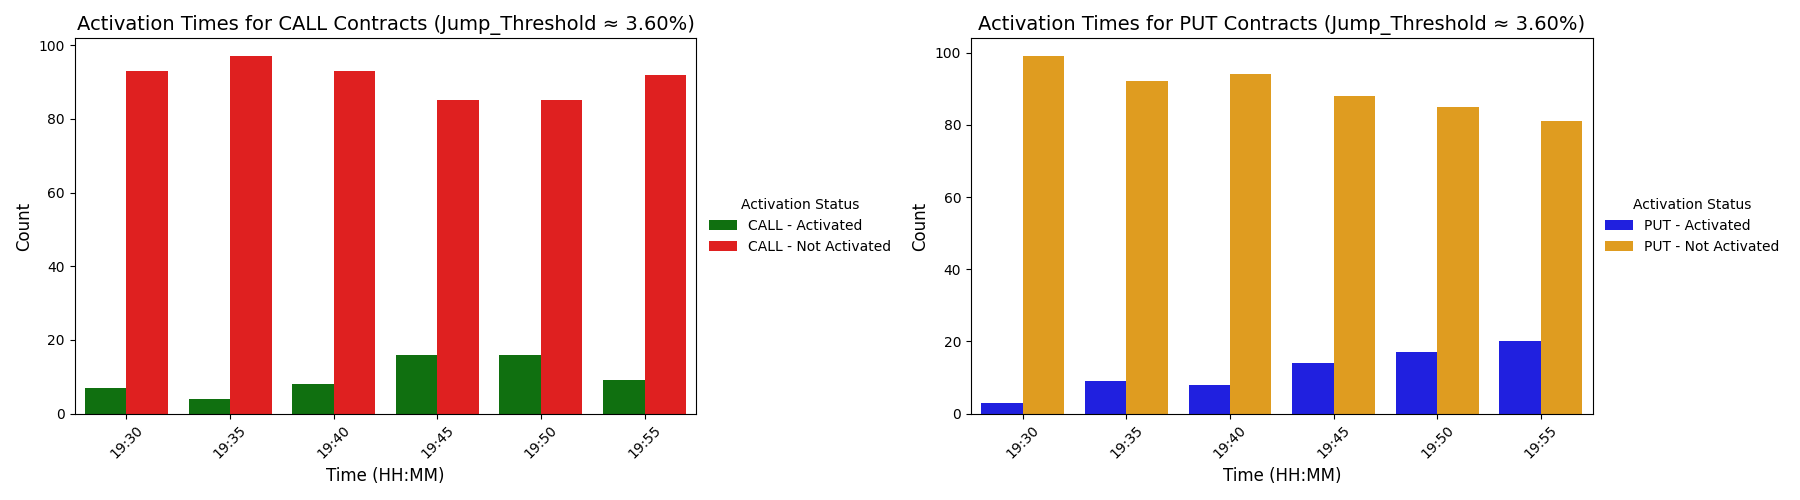
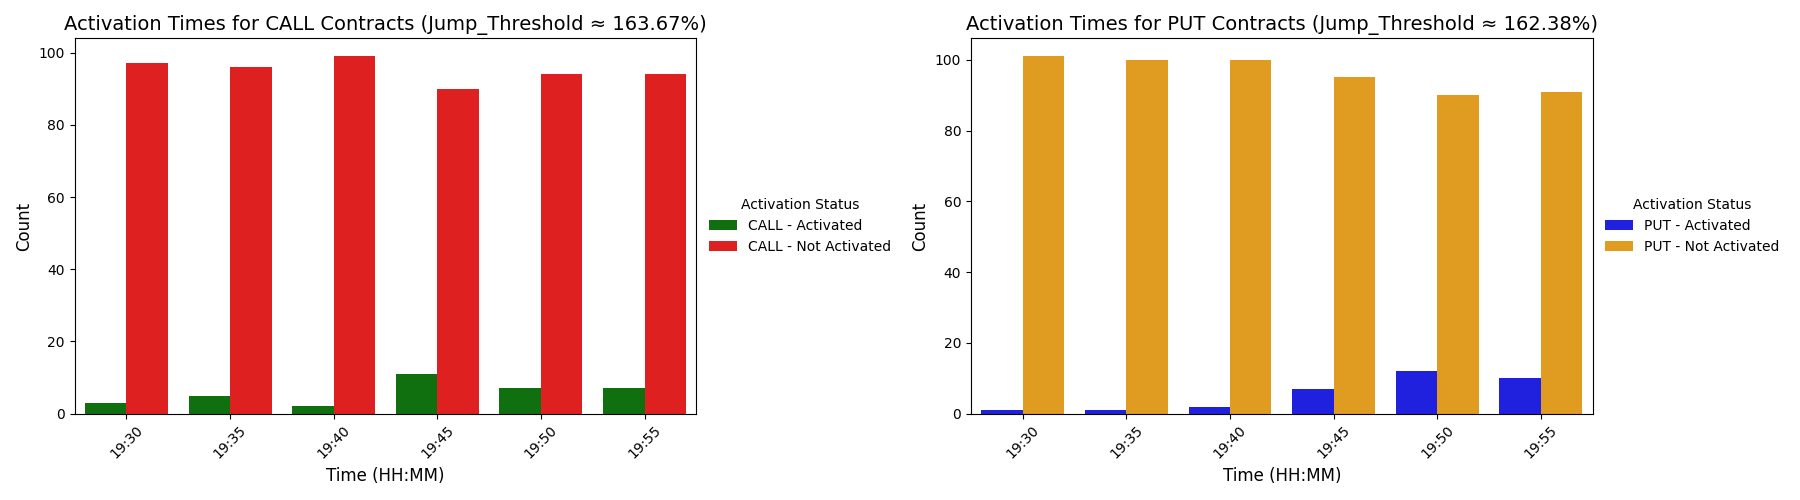
Fixing bug with activation graph

diff --git a/analysis/activation.py b/analysis/activation.py
@@ -3,13 +3,14 @@ import seaborn as sns
 import matplotlib.pyplot as plt
 import numpy as np
 from datetime import datetime, timedelta
-from data.models import Contract
+from data.models import Contract, ContractType
 from typing import List
 import os
 
 
 def compute_contract_jump_threshold(contracts: List[Contract]) -> float:
-    jumps = []
+    call_jumps, put_jumps = [], []
+
     for c in contracts:
         candles = c.data
         if not candles:
@@ -22,14 +23,19 @@ def compute_contract_jump_threshold(contracts: List[Contract]) -> float:
             jump = max(c.high for c in five_min_candles) - min(
                 c.low for c in five_min_candles
             )
-            jumps.append(jump)
+            jump_pct = (jump / min(c.low for c in five_min_candles)) * 100
+            if c.contract_type == ContractType.CALL:
+                call_jumps.append(jump_pct)
+            elif c.contract_type == ContractType.PUT:
+                put_jumps.append(jump_pct)
 
-    return pd.Series(jumps).quantile(0.75)
+    return pd.Series(call_jumps).quantile(0.5), pd.Series(put_jumps).quantile(0.5)
 
 
 def gather_activation_records(
     contracts: List[Contract],
-    jump_threshold: float,
+    call_threshold: float,
+    put_threshold: float,
 ) -> pd.DataFrame:
     records = []
 
@@ -62,7 +68,12 @@ def gather_activation_records(
 
             max_high = max(c.high for c in next_5_min_candles)
             jump = max_high - candle.close
-            activated = jump >= jump_threshold
+            jump_pct = (jump / candle.close) * 100
+            activated = jump_pct >= (
+                call_threshold
+                if contract.contract_type == ContractType.CALL
+                else put_threshold
+            )
 
             records.append(
                 {
@@ -78,8 +89,8 @@ def gather_activation_records(
 def plot_activation_times(
     contracts: List[Contract],
 ):
-    jump_threshold = compute_contract_jump_threshold(contracts)
-    df = gather_activation_records(contracts, jump_threshold)
+    call_thres, put_thres = compute_contract_jump_threshold(contracts)
+    df = gather_activation_records(contracts, call_thres, put_thres)
 
     if df.empty:
         print("No data to plot.")
@@ -134,11 +145,11 @@ def plot_activation_times(
     )
 
     ax1.set_title(
-        f"Activation Times for CALL Contracts (Jump_Threshold ≈ {jump_threshold:.2f}%)",
+        f"Activation Times for CALL Contracts (Jump_Threshold ≈ {call_thres:.2f}%)",
         fontsize=14,
     )
     ax2.set_title(
-        f"Activation Times for PUT Contracts (Jump_Threshold ≈ {jump_threshold:.2f}%)",
+        f"Activation Times for PUT Contracts (Jump_Threshold ≈ {put_thres:.2f}%)",
         fontsize=14,
     )
 
